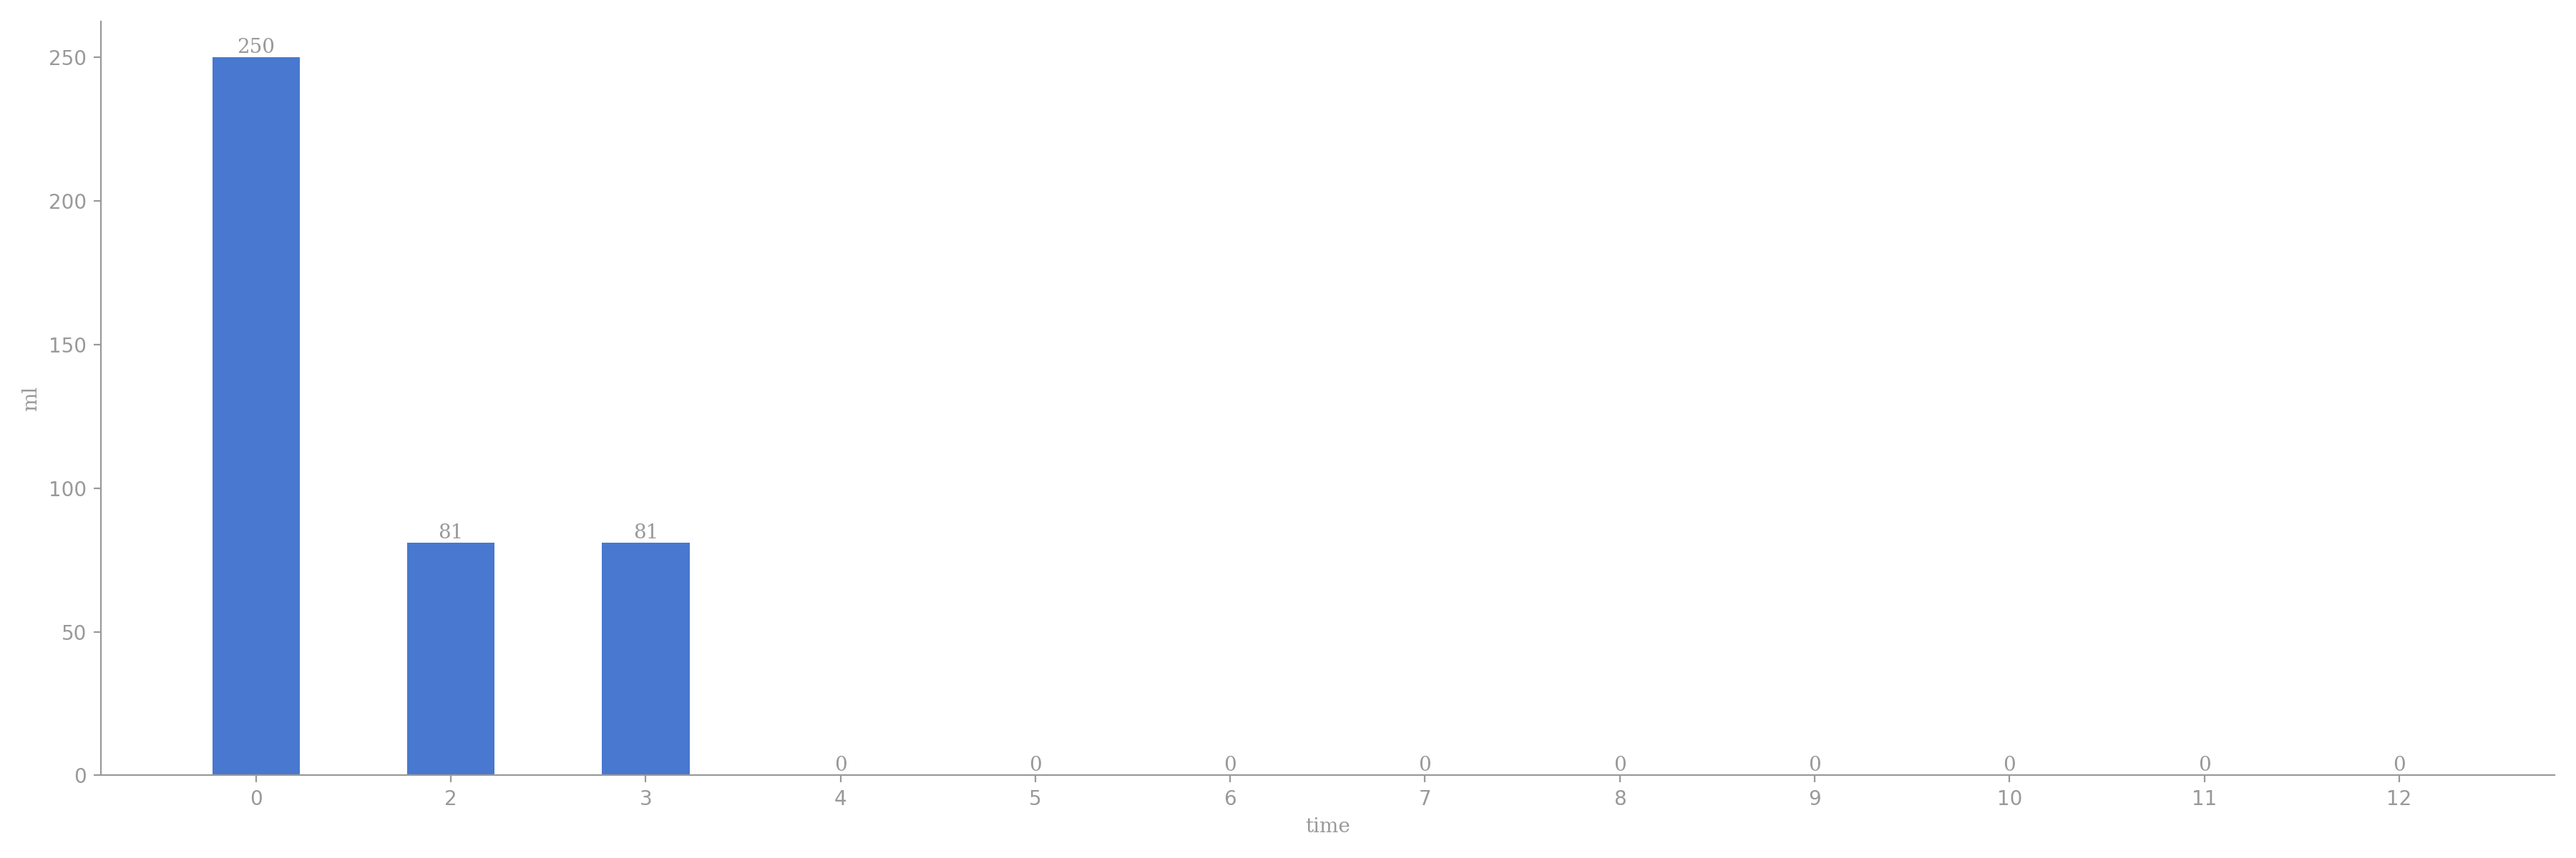
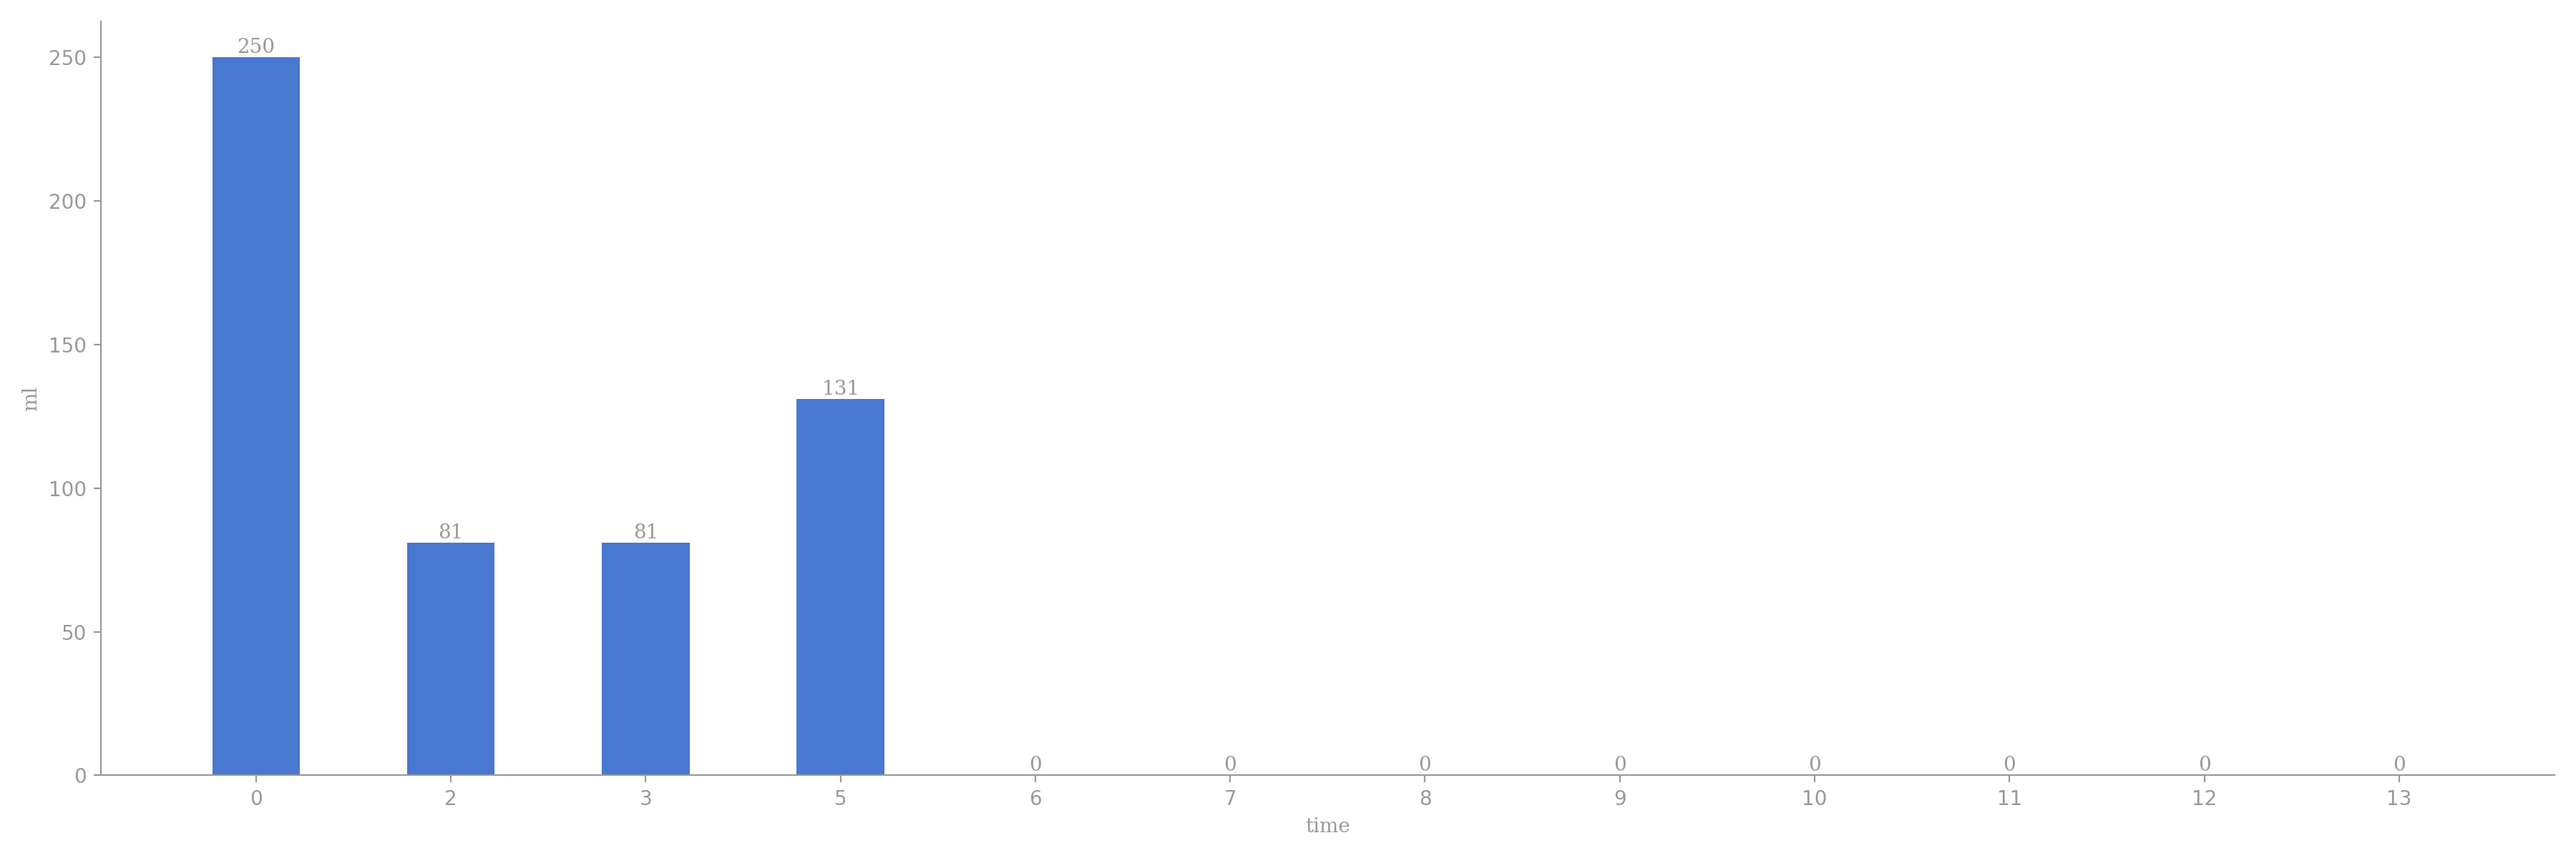
generated readme

Changed region(s): [[0.3111, 0.4625, 0.3422, 0.925]]

diff --git a/README.md b/README.md
@@ -5,12 +5,12 @@
 
 | 今日总饮水量 | 每小时平均饮水量 |
 | :----: | :----: |
-| 412 | 137 |
+| 543 | 135 |
 </div>
 
-| 日期 | 00:52:29 | 02:53:28 | 03:43:22 |
-| :----: | :----: | :----: | :----: |
-| 2024-06-15 | 250 | 81 | 81 |
+| 日期 | 00:52:29 | 02:53:28 | 03:43:22 | 05:04:15 |
+| :----: | :----: | :----: | :----: | :----: |
+| 2024-06-15 | 250 | 81 | 81 | 131 |
 
 # 近30日饮水数据
 
